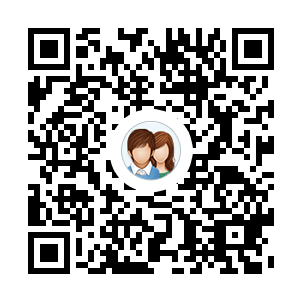
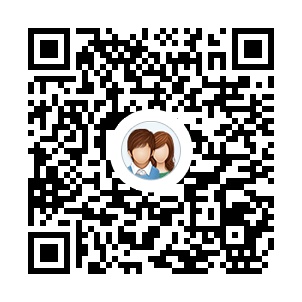
更新群号

Changed region(s): [[0.0894, 0.0894, 0.9238, 0.9238]]

diff --git a/README.md b/README.md
@@ -31,7 +31,7 @@ http://doc.tangyh.top/zuihou-admin-cloud
 
 
 ## 交流群： 1011148503（群2）、 63202894（满）
-![qq群.png](docs/image/qq群.png) <a target="_blank" href="//shang.qq.com/wpa/qunwpa?idkey=49c099f85e6bde1b35ccd9ebbf23da6ee67b2a49dc8cce47072a31e617e3883c"><img border="0" src="//pub.idqqimg.com/wpa/images/group.png" alt="zuihou-admin-cloud 交流" title="zuihou-admin-cloud 交流"></a>
+![qq群.png](docs/image/qq群.png) <a target="_blank" href="//shang.qq.com/wpa/qunwpa?idkey=958f380cb111bcea0cfe35cc5996c47b72ae17a3757807599d1f5ad4fa3c4f6b"><img border="0" src="//pub.idqqimg.com/wpa/images/group.png" alt="zuihou-admin-cloud 交流" title="zuihou-admin-cloud 交流"></a>
 
     加群前请先将下方项目点star，支持下群主，谢谢😘
 
